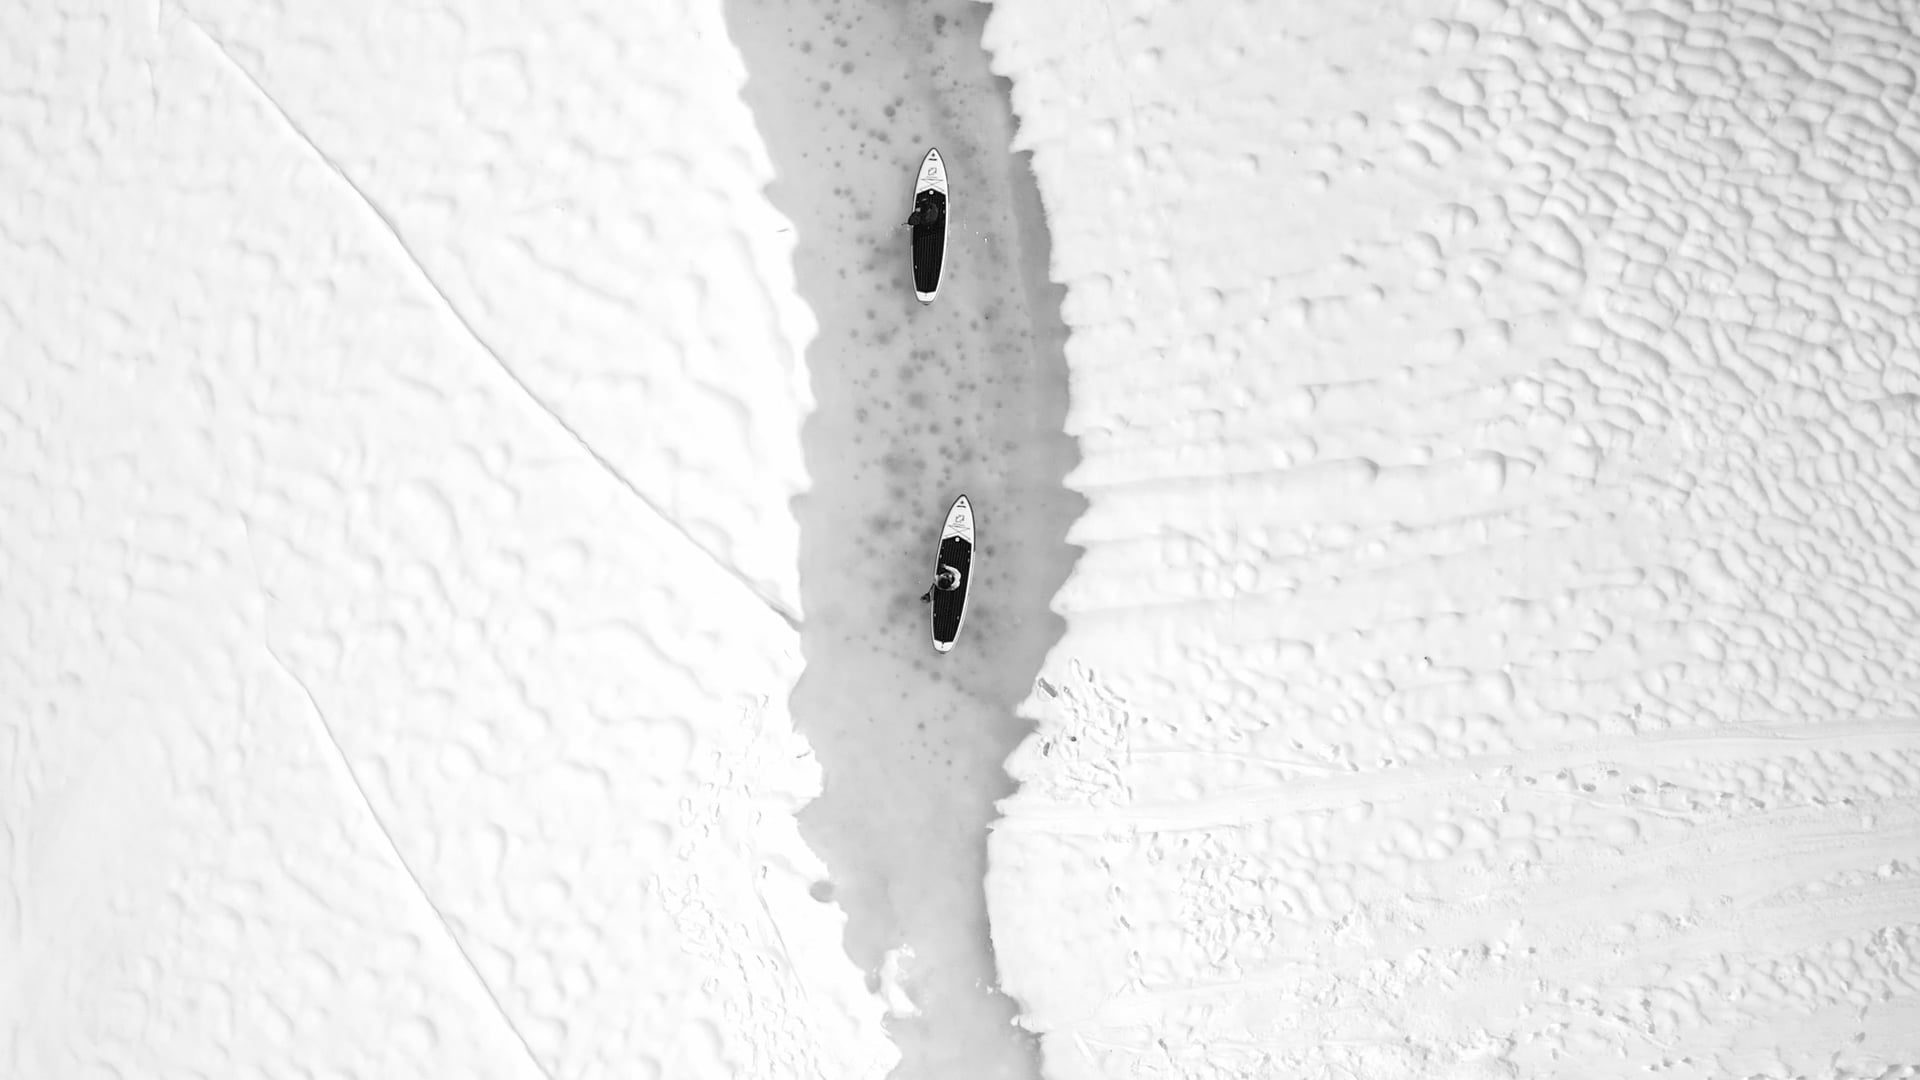
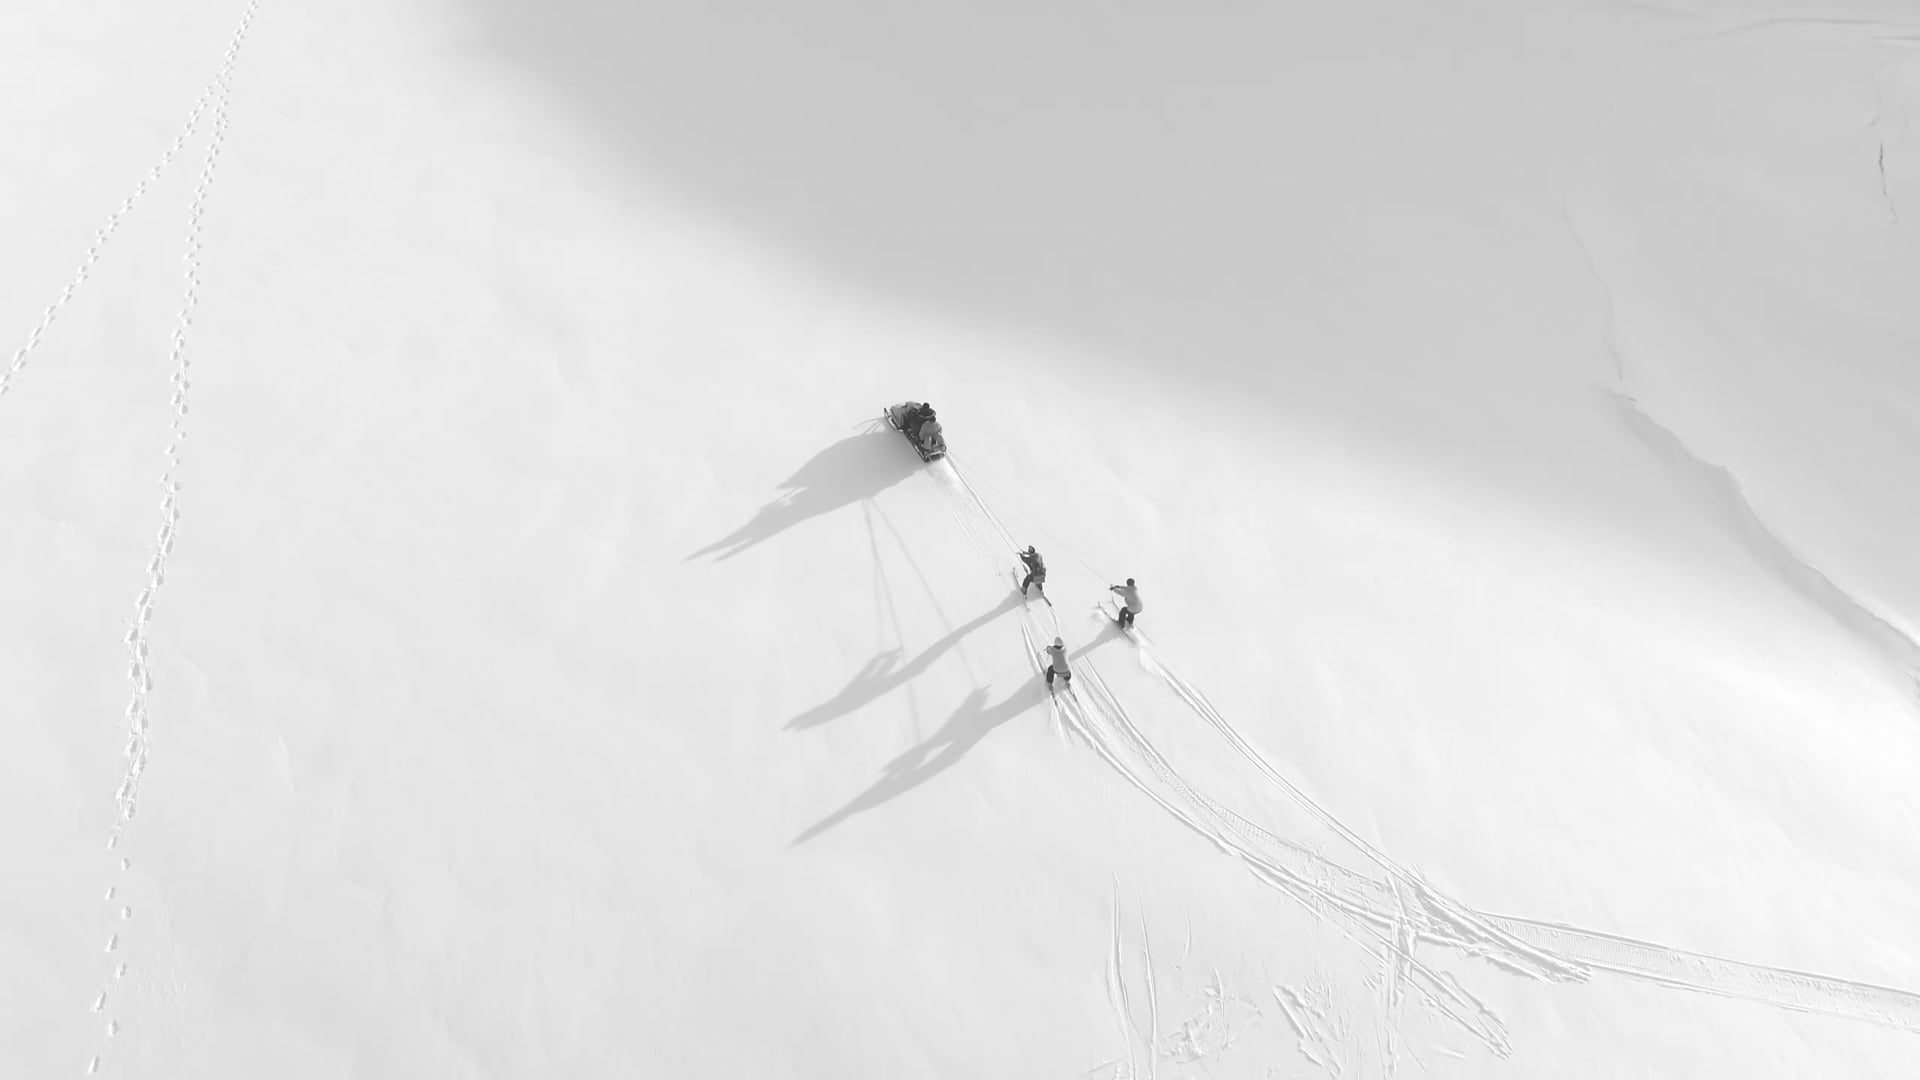
/munich/ hero video: 1226927399, poster from its first frame
Vimeo id swapped; poster pulled from the new video's own first frame at
1920×1080 (mean 224/255, so the veil stays off).

diff --git a/munich/index.html b/munich/index.html
@@ -138,7 +138,7 @@
            controls. dnt=1 opts out of Vimeo's tracking cookies. -->
       <div class="hero__video" aria-hidden="true">
         <iframe
-          src="https://player.vimeo.com/video/1226635583?background=1&amp;autoplay=1&amp;loop=1&amp;muted=1&amp;autopause=0&amp;dnt=1"
+          src="https://player.vimeo.com/video/1226927399?background=1&amp;autoplay=1&amp;loop=1&amp;muted=1&amp;autopause=0&amp;dnt=1"
           title="Munich hero" frameborder="0" tabindex="-1"
           allow="autoplay; fullscreen; picture-in-picture"
           referrerpolicy="strict-origin-when-cross-origin"></iframe>

diff --git a/Landing page/munich/03-IMAGES.md b/Landing page/munich/03-IMAGES.md
@@ -52,7 +52,7 @@ in place (copies in the session scratchpad).
 
 | Slot | File | Scene | Subject |
 |---|---|---|---|
-| Hero 16/9 | `muc-hero-poster` | — | Untouched: first frame of the Vimeo hero (1226635583) |
+| Hero 16/9 | `muc-hero-poster` | — | First frame of the Vimeo hero, swapped 15 Sep to 1226927399 (mean 224/255 — veil stays off) |
 | S–01 3/2 | `sector-startups-1600` | Bright | Founding team in a Werksviertel brick hall, a woman sketching a flow on a glass wall, sawtooth skylights |
 | S–02 4/5 | `sector-mobility-1600` | Dark | Engineer at a glowing console beside a car body on a lift, robots paused, the Alps through the glass at dusk |
 | S–03 1/1 | `sector-insurance-1600` | Dark | Advisor and a couple at a walnut table in an insurance HQ, Frauenkirche and Rathaus lit through the windows (the one deliberate landmark, as the network image has it) |
